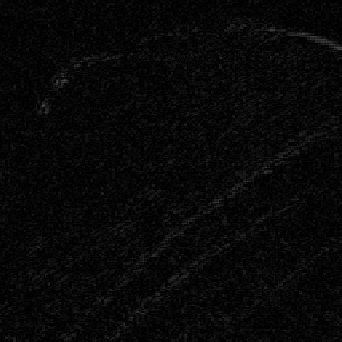
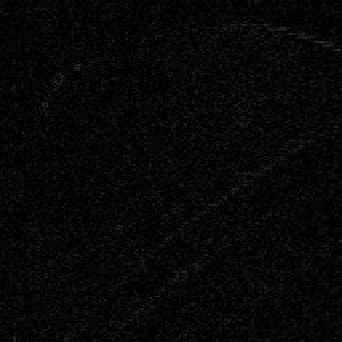
Add comments

diff --git a/Denoiser.py b/Denoiser.py
@@ -9,6 +9,7 @@ from PIL import Image
 
 class Denoiser:
 
+	# Build a denoiser object
 	def __init__(self, filename):
 		self.window_size = 5
 		self.patch_size = 1
@@ -21,14 +22,18 @@ class Denoiser:
 		self.closest_patchs_array_maximum_size = 5
 	# end def
 
+	# compare the non-noised picture with the denoised image
 	def compare_pictures(self):
 		original_picture = Image.open("""pictures/original.png""")
 		comparison = Image.new("""L""", (original_picture.size[0], original_picture.size[1]))
 
+		# Image width
 		for x in range(original_picture.width):
+			# Image height
 			for y in range(original_picture.height):
 				pixel_o = original_picture.getpixel((x, y))
 				pixel_d = self.denoised_image.getpixel((x, y))
+				# Difference between the pictures
 				comparison.putpixel((x, y), abs(pixel_o[0] - pixel_d))
 			# end for
 		#end for
@@ -36,15 +41,15 @@ class Denoiser:
 		comparison.save("""pictures/comparison.png""", """PNG""")
 	# end def
 
-
+	# Display picture's details
 	@staticmethod
 	def display_image_details(image):
 		print("""{ Format :""", image.format,
 			  """; Mode :""", image.mode,
 			  """; Size :""", image.size, """}""")
-
 	# end def
 
+	# Get the furthest neighbour in the closest patchs array
 	def get_index_of_maximal_distance(self, tab):
 		index = 0
 		maximum = tab[0][2]
@@ -55,38 +60,40 @@ class Denoiser:
 			# end if
 		# end for
 		return index
-
 	# end def
 
+	# Initialize the patch array
 	def init_patchs_array(self, size):
 		self.patchs_array = [[Patch((0, 0), 0,
 									self.noised_image)] * self.denoised_image.height] * self.denoised_image.width
-
+		# Image width
 		for x in range(self.denoised_image.width):
+			# Image height
 			for y in range(self.denoised_image.height):
 				self.patchs_array[x][y] = Patch((x, y), size, self.noised_image)
 			# end for
 		# end for
-
 	# end def
 
+	# Convert the image to greyscale
 	def prepare_image(self):
 		if self.noised_image.mode != """L""":
-			# Convert to a greyscale system
 			self.noised_image = self.noised_image.convert("""L""")
 		# end if
-
 	# end def
 
+	# Denoising function
 	def denoise(self, x):
+		# Image height
 		for y in range(self.denoised_image.height):
-			# Window width
 			closest_patchs_array = []
 			closest_patchs_array_current_size = self.closest_patchs_array_current_size
 			closest_patchs_array_maximum_size = self.closest_patchs_array_maximum_size
 			sum_weight = 0
 			h = 100
 			h = h ** 2
+
+			# Window width
 			for u in range(self.window_size):
 				# Window height
 				for t in range(self.window_size):
@@ -128,9 +135,10 @@ class Denoiser:
 
 			pixel = (pixel + self.noised_image.getpixel((x, y))) / 2
 			self.denoised_image.putpixel((x, y), int(pixel))
+		# end for
+	# end def
 
 	def run(self, patch_size, window_size):
-
 		self.init_patchs_array(patch_size)
 		self.closest_patchs_array = []
 		self.patch_size = patch_size
@@ -140,6 +148,7 @@ class Denoiser:
 			self.denoise(x)
 		# end for
 
+		self.compare_pictures()
 	# end def
 
 	def show(self, choice):
@@ -151,14 +160,12 @@ class Denoiser:
 			print("""Invalid parameter "choice" for Denoiser.show(choice)""")
 	# end def
 
-
 # end class
 
 
 if __name__ == """__main__""":
 	denoiser = Denoiser("""pictures/input.png""")
-	denoiser.compare_pictures()
-	denoiser.run(5, 9)
+	denoiser.run(1, 5)
 	denoiser.denoised_image.save("pictures/output.png", "PNG")
 	denoiser.show("""input""")
 	denoiser.show("""output""")

diff --git a/Patch.py b/Patch.py
@@ -3,6 +3,7 @@ from Grid import *
 
 class Patch(Grid):
 
+    # Build a patch object
     def __init__(self, center, half_size, image):
         Grid.__init__(self, half_size * 2 + 1, half_size * 2 + 1)
         self.center = center
@@ -10,34 +11,41 @@ class Patch(Grid):
         self.fill_grid(self.center, image)
     # end def
 
+    # Set the value in the grid
     def fill_grid(self, center, image):
+        # Patch width
         for x in range(self.abscissa_size):
+            # Patch height
             for y in range(self.ordinate_size):
                 if (
-                    center[0] + x - self.half_size >= 0
-                    and center[1] + y - self.half_size >= 0
-                    and center[0] + x - self.half_size < image.width
-                    and center[1] + y - self.half_size < image.height
+                    center[0] + x - self.half_size >= 0						# Take values only in the image
+                    and center[1] + y - self.half_size >= 0					# Warning :
+                    and center[0] + x - self.half_size < image.width		#	- out of range without
+                    and center[1] + y - self.half_size < image.height		#	  this checkup
                 ):
                     self.grid[x][y] = image.getpixel((center[0] + x - self.half_size, center[1] + y - self.half_size))
                  # end if
         # end for
     # end def
 
+    # Compare a grid with the current grid
     def compare_grid(self, grid):
         distance = 0
+        # Patch width
         for x in range(self.abscissa_size):
+            # Patch height
             for y in range(self.ordinate_size):
                 if (
-                    type(grid) is Patch
-                    and grid.grid[x][y] != -1
-                    and self.grid[x][y] != -1
+                    type(grid) is Patch				# Check types before comparison
+                    and grid.grid[x][y] != -1		# Check the content of the other grid
+                    and self.grid[x][y] != -1		# Check the content of the current grid
                 ):
+                    # Compute the distance
                     distance += abs(grid.grid[x][y] - self.grid[x][y]) ** 2
                 # end if
             # end for
         # end for
         return distance
-    # end defgb
+    # end def
 
 # end class

diff --git a/Grid.py b/Grid.py
@@ -1,19 +1,15 @@
 class Grid:
 
+    # Build a grid object
     def __init__(self, abscissa_size, ordinate_size):
         self.abscissa_size = abscissa_size
         self.ordinate_size = ordinate_size
         self.grid = self.init_grid()
     # end def
 
+    # Set the value to -1 by default for initialize the array with the good size
     def init_grid(self):
-        # grid = [[]]
-        # for x in range(self.abscissa_size):
-        #    for y in range(self.ordinate_size):
-        #         grid[x][y] = ( x , y , 0 )
-
         grid = [[-1 for y in range(self.abscissa_size)] for x in range(self.ordinate_size)]
-
         return grid
     # end def
 
